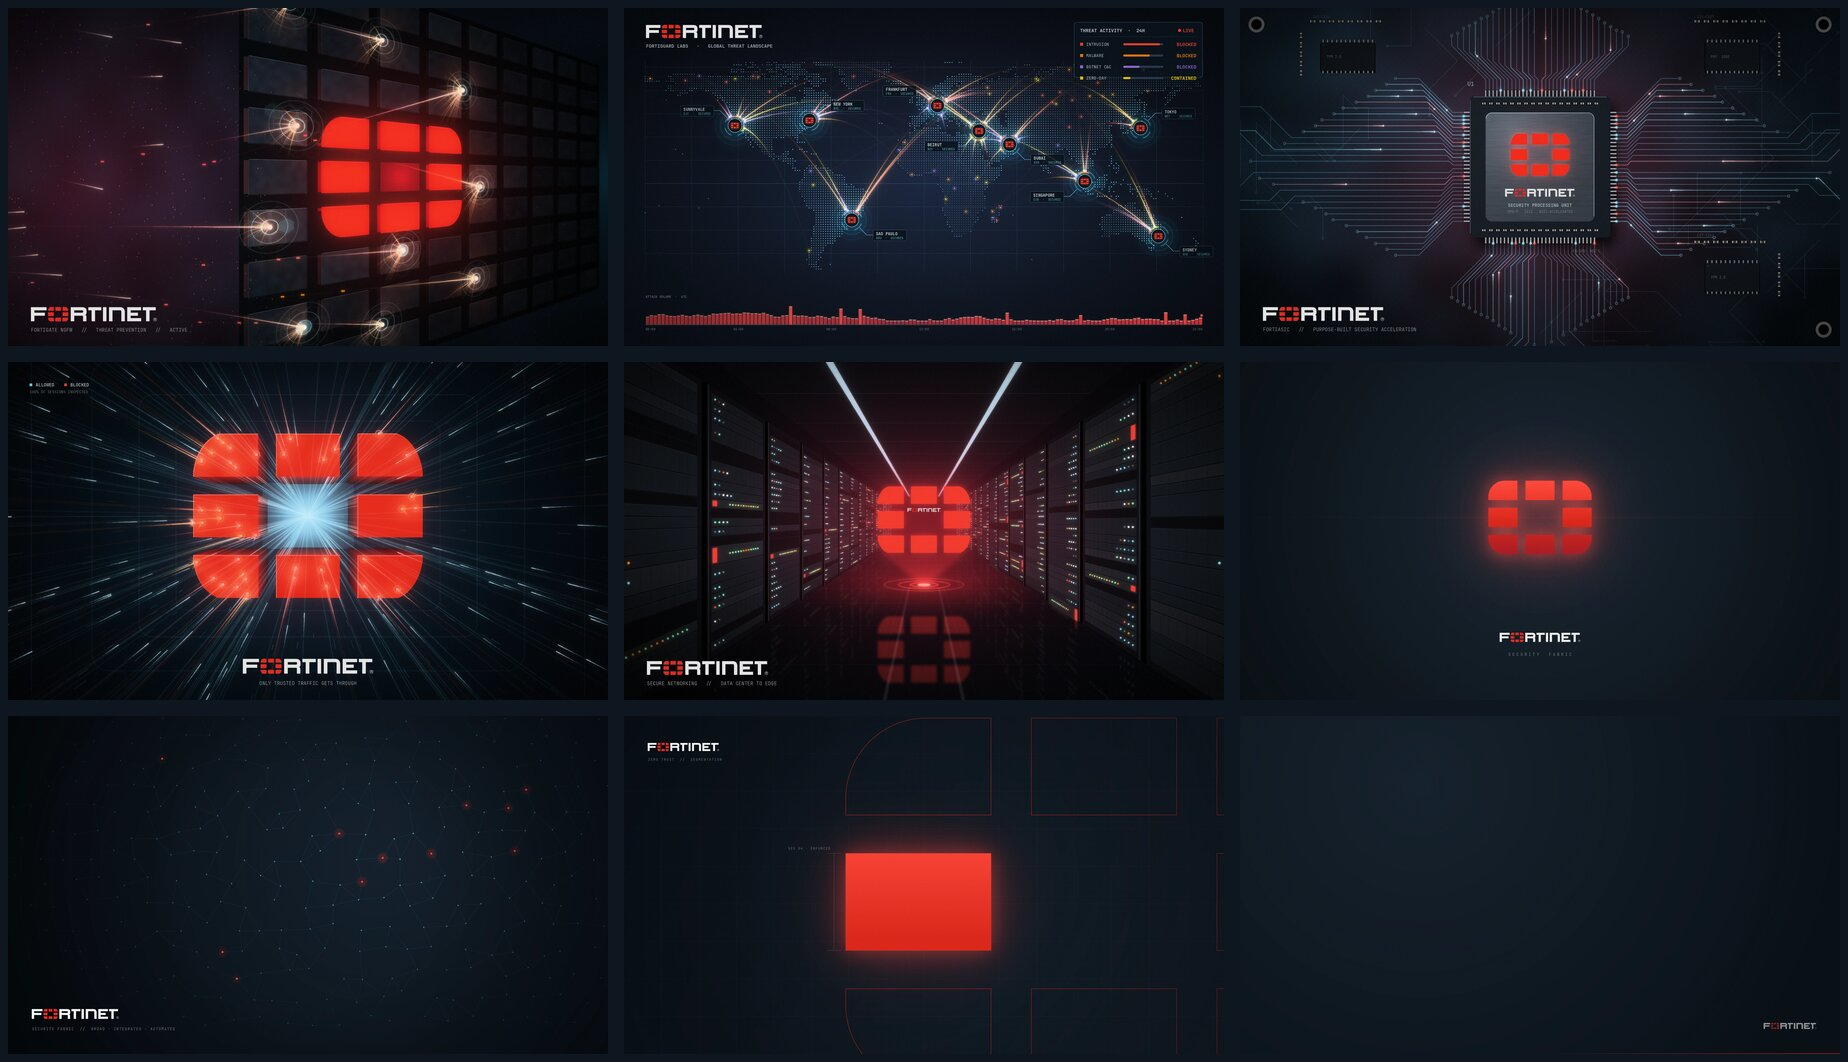
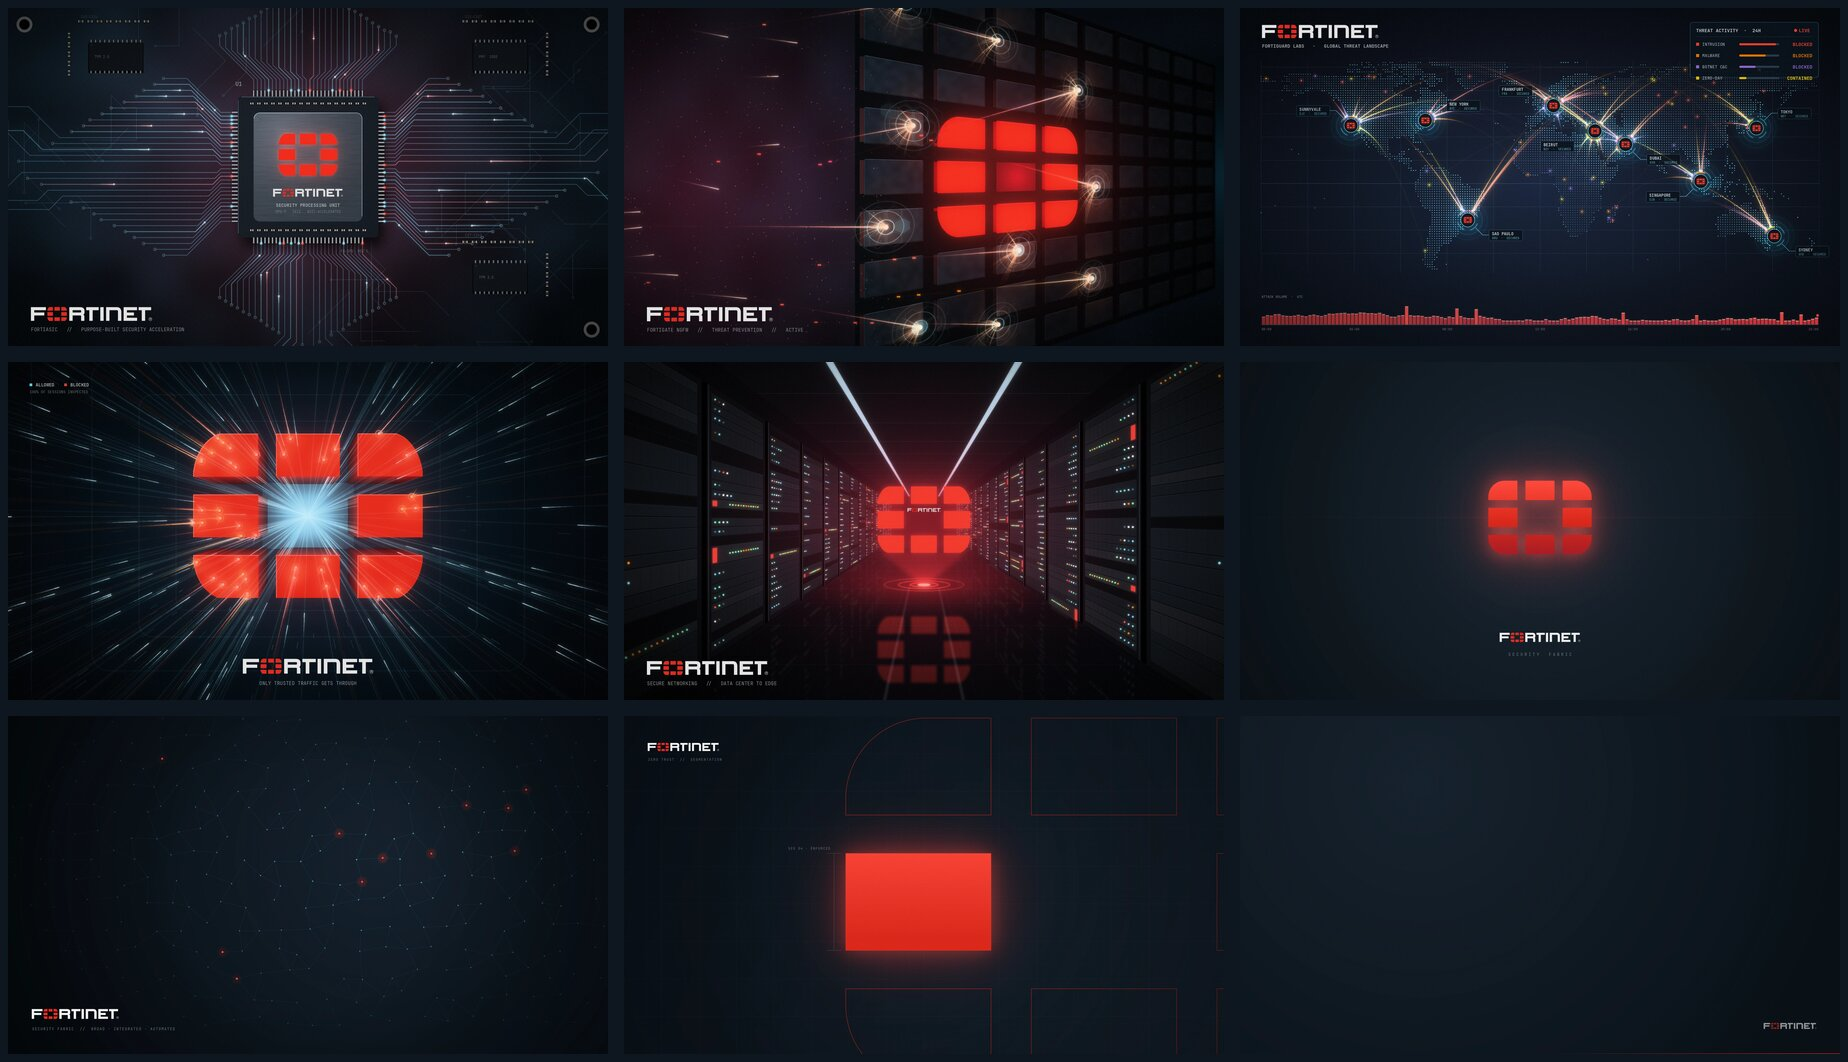
Make the ASIC wallpaper the preview and default background

Changed region(s): [[0.0, 0.0, 0.6477, 0.3418], [0.6786, 0.0, 0.987, 0.3107], [0.4627, 0.0, 0.4935, 0.0311]]

diff --git a/README.md b/README.md
@@ -25,9 +25,9 @@ Or pick it from **Menu → Install → Style → Theme** once it's listed on [th
 
 | # | Name | |
 |---|------|---|
-| 1 | firewall | The logo on a firewall face, under fire |
-| 2 | threatmap | A global threat map |
-| 3 | asic | A security processor (SPU) |
+| 1 | asic | A security processor (SPU), the default wallpaper |
+| 2 | firewall | The logo on a firewall face, under fire |
+| 3 | threatmap | A global threat map |
 | 4 | gateway | Traffic streaming through the logo |
 | 5 | datacenter | A server aisle |
 | 6 | sentinel | Centered logo with a soft glow (4K) |
